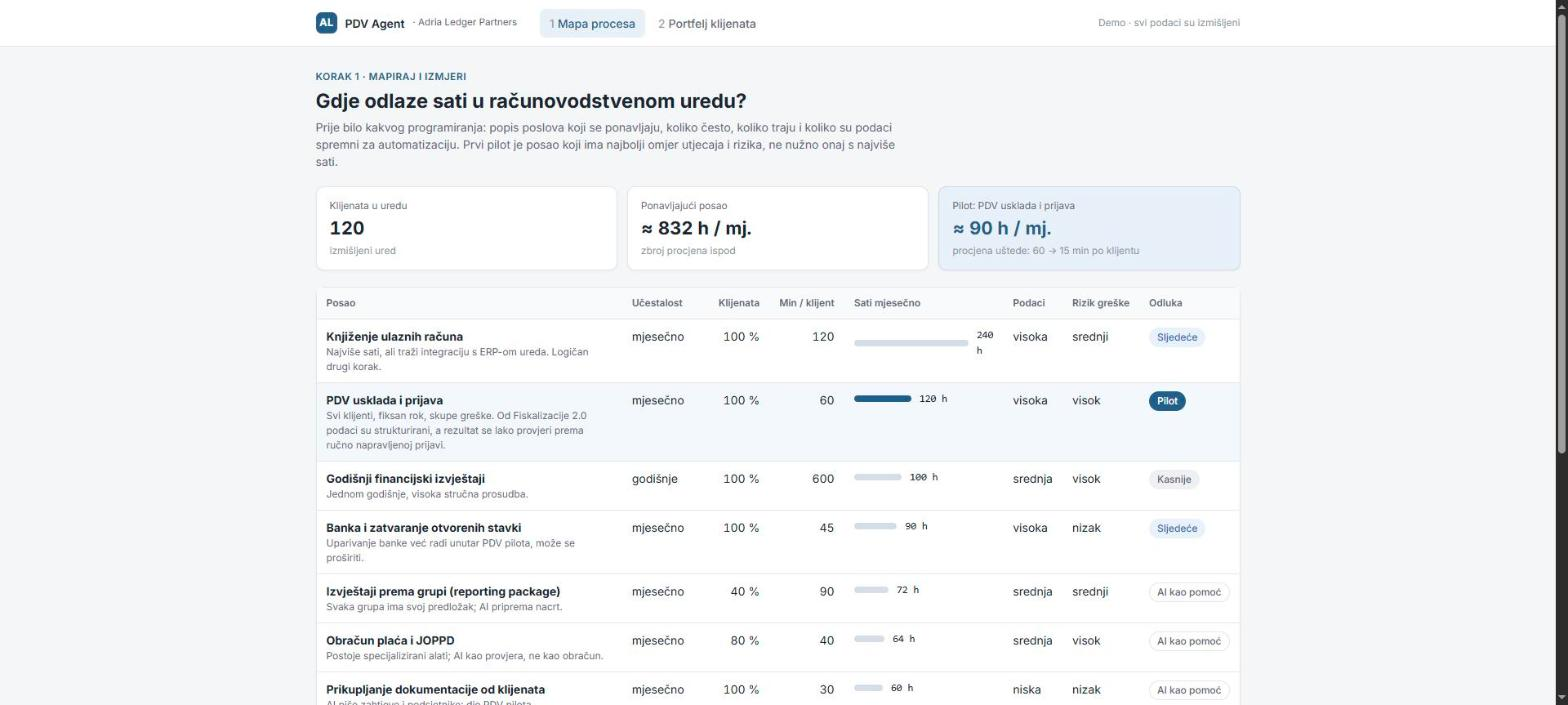
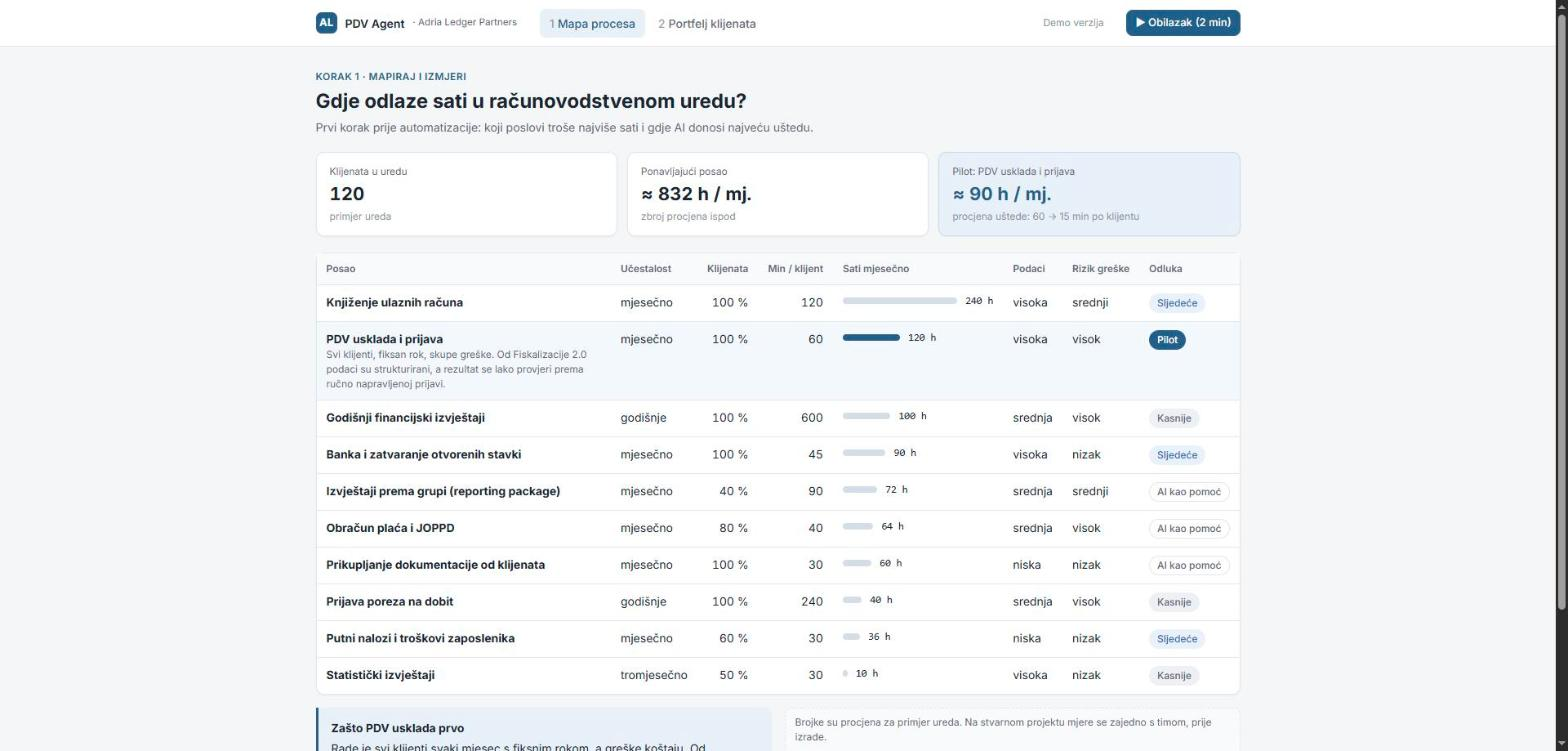
README: guided tour link, calculator, refreshed screenshots

diff --git a/README.md b/README.md
@@ -2,11 +2,11 @@
 
 An AI agent that prepares the monthly Croatian VAT return (PDV) for an accounting practice. It reconciles the client's books with fiscalized eRačuni (Fiskalizacija 2.0) and the bank statement, reads foreign PDF invoices, drafts the VAT return and EC Sales List (ZP), and flags every exception green / orange / red with a plain-language explanation. The accountant reviews only the exceptions and signs off. The interface is in Croatian, since it's built for Croatian accounting teams.
 
-**Live demo:** [pdv-agent-wu6l.onrender.com](https://pdv-agent-wu6l.onrender.com) (free instance: the first load can take ~50 s) · **Video walkthrough (2 min):** _coming soon_
+**▶ [Guided tour (2 min)](https://pdv-agent-wu6l.onrender.com/#/obilazak)**: walks through the real app step by step and ends with a calculator that estimates the time and money saved for your own firm. · **Live demo:** [pdv-agent-wu6l.onrender.com](https://pdv-agent-wu6l.onrender.com)
 
 > All companies, people, tax numbers and amounts in this repository are **fictional**. The VAT rules are simplified and the law references must be verified by a tax professional before any real use.
 
-![Client page: findings with AI explanations](docs/screenshots/3-nalazi.jpg)
+![Guided tour: the agent finds a 1,126.63 EUR error in one client's VAT return](docs/screenshots/6-obilazak.jpg)
 
 ## How I approached it
 
@@ -38,10 +38,15 @@ For one client and one period (fictional **Nordtech Adriatic d.o.o.**, a Croatia
 4. **Drafts the email to the client** (HR + EN) for the documents that are missing.
 5. **Answers the accountant's questions** about the period ("What do I still need from the client?"), grounded in the findings and the VAT rules, with links back to the findings it relies on.
 6. **Shows the VAT return before and after the proposed corrections.** Accepting or dismissing a finding updates the draft return and the client's status in the portfolio.
+7. **Guided tour with a savings calculator.** A 10-step walkthrough of the real app focused on time and money saved; the last step lets a firm enter its own client count, minutes per client, team size and hourly value.
 
-| Draft VAT return | Client email |
+| Findings with AI explanations | Ask the agent |
 |---|---|
-| ![VAT return](docs/screenshots/4-pdv-obrazac.jpg) | ![Email](docs/screenshots/5-dopis-klijentu.jpg) |
+| ![Findings](docs/screenshots/3-nalazi.jpg) | ![Ask the agent](docs/screenshots/5-pitaj-agenta.jpg) |
+
+| Draft VAT return | Savings calculator |
+|---|---|
+| ![VAT return](docs/screenshots/4-pdv-prijava.jpg) | ![Savings calculator](docs/screenshots/7-kalkulator.jpg) |
 
 ## Design: AI where judgment is needed, plain code where numbers are
 
